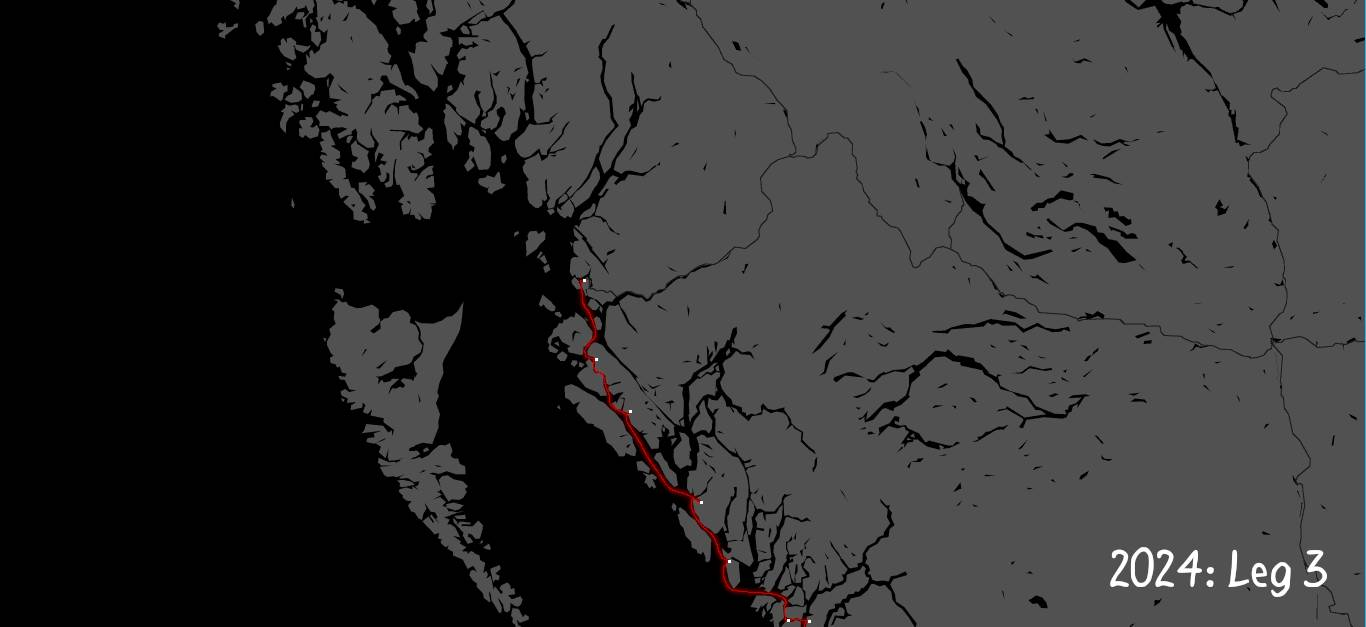
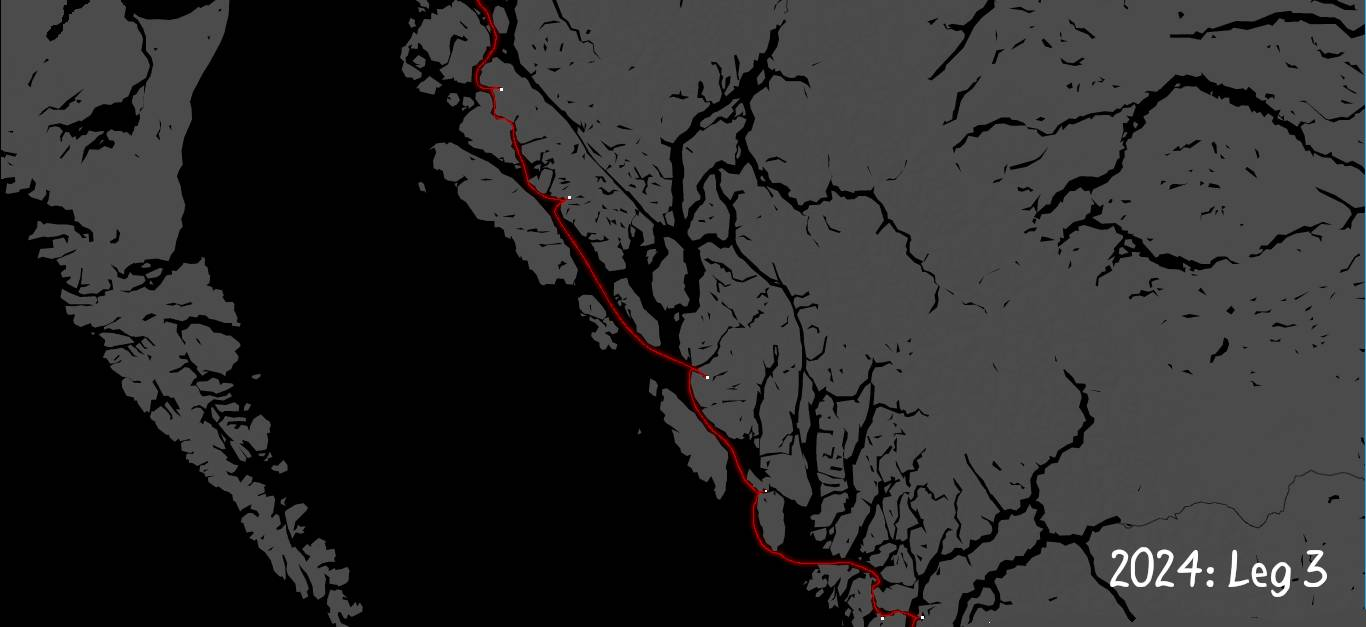
*

diff --git a/site/index.html b/site/index.html
@@ -106,5 +106,5 @@
 
 <h1>index</h1><ul class='col2 capital'><li><a href='2018.html'>2018</a></li><li><a href='2019.html'>2019</a></li><li><a href='2020.html'>2020</a></li><li><a href='2021.html'>2021</a></li><li><a href='2022.html'>2022</a></li><li><a href='2023.html'>2023</a></li><li><a href='2024.html'>2024</a></li><li><a href='6502_assembly.html'>6502 assembly</a></li><li><a href='a_home_for_pino.html'>a home for pino</a></li><li><a href='about_us.html'>about us</a></li><li><a href='abyc_wire_color_codes.html'>abyc wire color codes</a></li><li><a href='ac_electrical_refit.html'>ac electrical refit</a></li><li><a href='adelie.html'>adelie</a></li><li><a href='ais.html'>ais</a></li><li><a href='ais_installation.html'>ais installation</a></li><li><a href='alcohol_stove.html'>alcohol stove</a></li><li><a href='an_island_to_oneself.html'>an island to oneself</a></li><li><a href='anchoring.html'>anchoring</a></li><li><a href='anchoring_setup.html'>anchoring setup</a></li><li><a href='ascii.html'>ascii</a></li><li><a href='ballet_bay.html'>ballet bay</a></li><li><a href='barometer.html'>barometer</a></li><li><a href='batteries.html'>batteries</a></li><li><a href='beaufort_scale.html'>beaufort scale</a></li><li><a href='bed.html'>bed</a></li><li><a href='bikes.html'>bikes</a></li><li><a href='bikes_on_a_boat.html'>bikes on a boat</a></li><li><a href='board_games.html'>board games</a></li><li><a href='boat_projects.html'>boat projects</a></li><li><a href='boom_tent.html'>boom tent</a></li><li><a href='burgee.html'>burgee</a></li><li><a href='burgee_project.html'>burgee project</a></li><li><a href='busy_doing_nothing.html'>busy doing nothing</a></li><li><a href='buying_a_sailboat.html'>buying a sailboat</a></li><li><a href='calling_for_help.html'>calling for help</a></li><li><a href='captain_what_is_this.html'>captain what is this</a></li><li><a href='carbonation.html'>carbonation</a></li><li><a href='cast_iron_cookware.html'>cast iron cookware</a></li><li><a href='cathedral_grove.html'>cathedral grove</a></li><li><a href='chainplates.html'>chainplates</a></li><li><a href='charging_electronics.html'>charging electronics</a></li><li><a href='choosing_upholstery_fabric.html'>choosing upholstery fabric</a></li><li><a href='choosing_upholstery_foam.html'>choosing upholstery foam</a></li><li><a href='cleaning_products.html'>cleaning products</a></li><li><a href='coffee.html'>coffee</a></li><li><a href='communication.html'>communication</a></li><li><a href='computing_and_sustainability.html'>computing and sustainability</a></li><li><a href='contribute.html'>contribute</a></li><li><a href='cook_islands.html'>cook islands</a></li><li><a href='cooking.html'>cooking</a></li><li><a href='cost_of_simplicity.html'>cost of simplicity</a></li><li><a href='costs.html'>costs</a></li><li><a href='curtains.html'>curtains</a></li><li><a href='data_storage.html'>data storage</a></li><li><a href='dc_electrical_refit.html'>dc electrical refit</a></li><li><a href='decorations.html'>decorations</a></li><li><a href='diet.html'>diet</a></li><li><a href='distractions.html'>distractions</a></li><li><a href='ditch_bag.html'>ditch bag</a></li><li><a href='diy_carbonation_system.html'>diy carbonation system</a></li><li><a href='documenting.html'>documenting</a></li><li><a href='doldrumming.html'>doldrumming</a></li><li><a href='donsol.html'>donsol</a></li><li><a href='dotgrid.html'>dotgrid</a></li><li><a href='drownspire.html'>drownspire</a></li><li><a href='dry_toilet.html'>dry toilet</a></li><li><a href='dry_toilet_installation.html'>dry toilet installation</a></li><li><a href='effect_of_combining_dissimilar_metals.html'>effect of combining dissimilar metals</a></li><li><a href='electrical_refit.html'>electrical refit</a></li><li><a href='energy.html'>energy</a></li><li><a href='engine_care.html'>engine care</a></li><li><a href='engine_rebuild.html'>engine rebuild</a></li><li><a href='fiji.html'>fiji</a></li><li><a href='first_aid_kit.html'>first aid kit</a></li><li><a href='food_storage.html'>food storage</a></li><li><a href='forecast.html'>forecast</a></li><li><a href='formalities.html'>formalities</a></li><li><a href='frances_bay.html'>frances bay</a></li><li><a href='french_polynesia.html'>french polynesia</a></li><li><a href='fuel_sensor.html'>fuel sensor</a></li><li><a href='fury_cove.html'>fury cove</a></li><li><a href='gabriola.html'>gabriola</a></li><li><a href='galiano.html'>galiano</a></li><li><a href='galley.html'>galley</a></li><li><a href='galley_plumbing.html'>galley plumbing</a></li><li><a href='galley_refit.html'>galley refit</a></li><li><a href='galley_tools.html'>galley tools</a></li><li><a href='gimballed_stove.html'>gimballed stove</a></li><li><a href='goji_no_chaimu.html'>goji no chaimu</a></li><li><a href='grace_harbour.html'>grace harbour</a></li><li><a href='gravity_water_filter.html'>gravity water filter</a></li><li><a href='grib_files.html'>grib files</a></li><li><a href='grimgrains.html'>grimgrains</a></li><li><a href='grinder.html'>grinder</a></li><li><a href='ground_tackle.html'>ground tackle</a></li><li><a href='growing_food.html'>growing food</a></li><li><a href='halloween_pumpkins.html'>halloween pumpkins</a></li><li><a href='hardware.html'>hardware</a></li><li><a href='hathayim_marine_park.html'>hathayim marine park</a></li><li><a href='hauling_out.html'>hauling out</a></li><li><a href='headsail.html'>headsail</a></li><li><a href='heating.html'>heating</a></li><li><a href='hello_fujisan.html'>hello fujisan</a></li><li><a href='heriot_bay.html'>heriot bay</a></li><li><a href='hexadecimal_table.html'>hexadecimal table</a></li><li><a href='hiversaires.html'>hiversaires</a></li><li><a href='home.html'>home</a></li><li><a href='how_lpg_solenoids_work.html'>how lpg solenoids work</a></li><li><a href='how_solenoids_work.html'>how solenoids work</a></li><li><a href='iggy.html'>iggy</a></li><li><a href='index.html'>index</a></li><li><a href='induction_cooking.html'>induction cooking</a></li><li><a href='installing_insulation.html'>installing insulation</a></li><li><a href='insulation.html'>insulation</a></li><li><a href='insulation_cooking.html'>insulation cooking</a></li><li><a href='insurance.html'>insurance</a></li><li><a href='internet.html'>internet</a></li><li><a href='internet_in_paradise.html'>internet in paradise</a></li><li><a href='japan.html'>japan</a></li><li><a href='jib_cars.html'>jib cars</a></li><li><a href='knots.html'>knots</a></li><li><a href='lactofermentation.html'>lactofermentation</a></li><li><a href='ladysmith.html'>ladysmith</a></li><li><a href='laundry.html'>laundry</a></li><li><a href='lazy_jacks.html'>lazy jacks</a></li><li><a href='left.html'>left</a></li><li><a href='left_electron.html'>left electron</a></li><li><a href='leleuvia.html'>leleuvia</a></li><li><a href='library.html'>library</a></li><li><a href='license.html'>license</a></li><li><a href='lifelines.html'>lifelines</a></li><li><a href='little_ninj.html'>little ninj</a></li><li><a href='liveaboard.html'>liveaboard</a></li><li><a href='living_aboard_in_winter.html'>living aboard in winter</a></li><li><a href='log.html'>log</a></li><li><a href='lost_logbook.html'>lost logbook</a></li><li><a href='lpg.html'>lpg</a></li><li><a href='lpg_fume_detection_system.html'>lpg fume detection system</a></li><li><a href='lpg_refit.html'>lpg refit</a></li><li><a href='mainsail.html'>mainsail</a></li><li><a href='maintenance_checklist.html'>maintenance checklist</a></li><li><a href='maintenance_cost.html'>maintenance cost</a></li><li><a href='making_saloon_cushions.html'>making saloon cushions</a></li><li><a href='making_seamed_box_cushions.html'>making seamed box cushions</a></li><li><a href='makogai.html'>makogai</a></li><li><a href='maple_bay.html'>maple bay</a></li><li><a href='marine_wire_termination.html'>marine wire termination</a></li><li><a href='markl.html'>markl</a></li><li><a href='marshall_islands.html'>marshall islands</a></li><li><a href='medical.html'>medical</a></li><li><a href='melanie_cove.html'>melanie cove</a></li><li><a href='meta.nav.html'>meta.nav</a></li><li><a href='metal_halyard_swaging.html'>metal halyard swaging</a></li><li><a href='mexico.html'>mexico</a></li><li><a href='mini_dodger.html'>mini dodger</a></li><li><a href='mission.html'>mission</a></li><li><a href='moisture_prevention_underliner.html'>moisture prevention underliner</a></li><li><a href='money.html'>money</a></li><li><a href='moorage.html'>moorage</a></li><li><a href='nasu.html'>nasu</a></li><li><a href='nasu_guide.html'>nasu guide</a></li><li><a href='navigation.html'>navigation</a></li><li><a href='new_zealand.html'>new zealand</a></li><li><a href='night_sailing.html'>night sailing</a></li><li><a href='niju.html'>niju</a></li><li><a href='ninj_blog.html'>ninj blog</a></li><li><a href='niue.html'>niue</a></li><li><a href='no_windlass.html'>no windlass</a></li><li><a href='noodle.html'>noodle</a></li><li><a href='north_pacific_logbook.html'>north pacific logbook</a></li><li><a href='north_pacific_ocean.html'>north pacific ocean</a></li><li><a href='nutrition.html'>nutrition</a></li><li><a href='oars.html'>oars</a></li><li><a href='octopus_islands.html'>octopus islands</a></li><li><a href='off_the_grid.html'>off the grid</a></li><li><a href='offshore.html'>offshore</a></li><li><a href='offshore_checklist.html'>offshore checklist</a></li><li><a href='ogasawara_cruising_guide.html'>ogasawara cruising guide</a></li><li><a href='open_pantry.html'>open pantry</a></li><li><a href='oquonie.html'>oquonie</a></li><li><a href='orca.html'>orca</a></li><li><a href='paradise.html'>paradise</a></li><li><a href='philosophy.html'>philosophy</a></li><li><a href='pino.html'>pino</a></li><li><a href='plantbased_diet_in_japan.html'>plantbased diet in japan</a></li><li><a href='port_mcneil.html'>port mcneil</a></li><li><a href='port_mcneill.html'>port mcneill</a></li><li><a href='port_neville.html'>port neville</a></li><li><a href='power.html'>power</a></li><li><a href='press.html'>press</a></li><li><a href='pressure_cooker.html'>pressure cooker</a></li><li><a href='princess_louisa_inlet.html'>princess louisa inlet</a></li><li><a href='privacy.html'>privacy</a></li><li><a href='productivity.html'>productivity</a></li><li><a href='projects_and_pain.html'>projects and pain</a></li><li><a href='propeller_maintenance.html'>propeller maintenance</a></li><li><a href='provisioning.html'>provisioning</a></li><li><a href='provisioning_in_japan.html'>provisioning in japan</a></li><li><a href='pull_request.html'>pull request</a></li><li><a href='rabbits.html'>rabbits</a></li><li><a href='radio.html'>radio</a></li><li><a href='rain.html'>rain</a></li><li><a href='rainy_with_a_chance_of_mosquitoes.html'>rainy with a chance of mosquitoes</a></li><li><a href='receiving_mail.html'>receiving mail</a></li><li><a href='reefing.html'>reefing</a></li><li><a href='refrigeration.html'>refrigeration</a></li><li><a href='refuge_cove.html'>refuge cove</a></li><li><a href='regulator.html'>regulator</a></li><li><a href='repair.html'>repair</a></li><li><a href='resources.html'>resources</a></li><li><a href='ronin.html'>ronin</a></li><li><a href='roscoe_bay.html'>roscoe bay</a></li><li><a href='safety_gear.html'>safety gear</a></li><li><a href='sailing.html'>sailing</a></li><li><a href='sailing_in_japan.html'>sailing in japan</a></li><li><a href='saloon_hatch.html'>saloon hatch</a></li><li><a href='satellite_phone.html'>satellite phone</a></li><li><a href='saturna.html'>saturna</a></li><li><a href='saving_fuel.html'>saving fuel</a></li><li><a href='schedule.html'>schedule</a></li><li><a href='seasickness.html'>seasickness</a></li><li><a href='setup.html'>setup</a></li><li><a href='sewing.html'>sewing</a></li><li><a href='shimoda.html'>shimoda</a></li><li><a href='shoal_bay.html'>shoal bay</a></li><li><a href='shore_power_cord_repair.html'>shore power cord repair</a></li><li><a href='shower.html'>shower</a></li><li><a href='sky_reading.html'>sky reading</a></li><li><a href='small_space.html'>small space</a></li><li><a href='smuggler_cove.html'>smuggler cove</a></li><li><a href='snubber.html'>snubber</a></li><li><a href='software.html'>software</a></li><li><a href='solar.html'>solar</a></li><li><a href='solar_box_cooking.html'>solar box cooking</a></li><li><a href='solar_cooking.html'>solar cooking</a></li><li><a href='solar_cooking_experiment.html'>solar cooking experiment</a></li><li><a href='solar_evacuated_tube_cooking.html'>solar evacuated tube cooking</a></li><li><a href='solar_tips.html'>solar tips</a></li><li><a href='sprouting.html'>sprouting</a></li><li><a href='squalls.html'>squalls</a></li><li><a href='standing_rigging_replacement.html'>standing rigging replacement</a></li><li><a href='store.html'>store</a></li><li><a href='story.html'>story</a></li><li><a href='sturt_bay.html'>sturt bay</a></li><li><a href='sun_driers.html'>sun driers</a></li><li><a href='support.html'>support</a></li><li><a href='teapot.html'>teapot</a></li><li><a href='telegraph_cove.html'>telegraph cove</a></li><li><a href='tenedos_bay.html'>tenedos bay</a></li><li><a href='the_promise_of_pancakes.html'>the promise of pancakes</a></li><li><a href='the_rock_of_polynesia.html'>the rock of polynesia</a></li><li><a href='thousand_rooms.html'>thousand rooms</a></li><li><a href='thruhulls.html'>thruhulls</a></li><li><a href='tonga.html'>tonga</a></li><li><a href='toolbox.html'>toolbox</a></li><li><a href='tools_ecosystem.html'>tools ecosystem</a></li><li><a href='turnip.html'>turnip</a></li><li><a href='twilight.html'>twilight</a></li><li><a href='typhoons_and_mold.html'>typhoons and mold</a></li><li><a href='upholstery.html'>upholstery</a></li><li><a href='us_west_coast.html'>us west coast</a></li><li><a href='uxn.html'>uxn</a></li><li><a href='uxn_design.html'>uxn design</a></li><li><a href='uxn_guide.html'>uxn guide</a></li><li><a href='verreciel.html'>verreciel</a></li><li><a href='victoria.html'>victoria</a></li><li><a href='videos.html'>videos</a></li><li><a href='washing_dishes.html'>washing dishes</a></li><li><a href='washing_produce.html'>washing produce</a></li><li><a href='waste.html'>waste</a></li><li><a href='water.html'>water</a></li><li><a href='water_filtration.html'>water filtration</a></li><li><a href='water_storage.html'>water storage</a></li><li><a href='weather.html'>weather</a></li><li><a href='weathering_software_winter.html'>weathering software winter</a></li><li><a href='website.html'>website</a></li><li><a href='western_canada.html'>western canada</a></li><li><a href='wheel_to_tiller_conversion.html'>wheel to tiller conversion</a></li><li><a href='where.html'>where</a></li><li><a href='why_a_boat.html'>why a boat</a></li><li><a href='wiktopher.html'>wiktopher</a></li><li><a href='windlass_removal.html'>windlass removal</a></li><li><a href='window_replacement.html'>window replacement</a></li><li><a href='wood_upkeep.html'>wood upkeep</a></li><li><a href='woodstove.html'>woodstove</a></li><li><a href='woodstove_installation.html'>woodstove installation</a></li><li><a href='working_offgrid_efficiently.html'>working offgrid efficiently</a></li><li><a href='yuculta_and_dent_rapids.html'>yuculta and dent rapids</a></li></ul>
 
-</main><footer><hr /><span style='float:right'>Edited on Thu May 30 09:11:39 2024
+</main><footer><hr /><span style='float:right'>Edited on Thu May 30 09:35:03 2024
  <a href='https://github.com/hundredrabbits/100r.co/edit/main/src/inc/index.htm'>[edit]</a><br/></span><b>Hundredrabbits</b> © 2024 — <a href='https://github.com/hundredrabbits/100r.co/blob/main/LICENSE.by-nc-sa-4.0.md' target='_blank'>BY-NC-SA 4.0</a><a href='https://merveilles.town/@neauoire' rel='me' class='hidden'></a><a href='https://merveilles.town/@rek' rel='me' class='hidden'></a></footer></body></html>

diff --git a/site/western_canada.html b/site/western_canada.html
@@ -189,6 +189,7 @@
 <a href="../media/content/maps/2024_01.jpg" target="_blank"><img src="../media/content/maps/2024_01.jpg" alt="2024 sailing route in bc canada" loading="lazy"></a>
 <a href="../media/content/maps/2024_02.jpg" target="_blank"><img src="../media/content/maps/2024_02.jpg" alt="2024 sailing route in bc canada" loading="lazy"></a>
 <a href="../media/content/maps/2024_03.jpg" target="_blank"><img src="../media/content/maps/2024_03.jpg" alt="2024 sailing route in bc canada" loading="lazy"></a>
+<a href="../media/content/maps/2024_04.jpg" target="_blank"><img src="../media/content/maps/2024_04.jpg" alt="2024 sailing route in bc canada" loading="lazy"></a>
 
 <p><b>Summer 2024 route(so far)</b>:</b> <a href='victoria.html' class='local'>Victoria</a> > North Saanich > Montague (<a href='galiano.html' class='local'>Galiano</a>) > Secretary Islands > <a href='smuggler_cove.html' class='local'>Smuggler Cove</a> > Pender Harbour > <a href='ballet_bay.html' class='local'>Ballet Bay</a> > <a href='sturt_bay.html' class='local'>Sturt Bay</a> > Galley Bay (Desolation Sound) > <a href='refuge_cove.html' class='local'>Refuge Cove</a> > <a href='frances_bay.html' class='local'>Frances Bay</a> > <a href='shoal_bay.html' class='local'>Shoal Bay</a> > Forward Harbour > <a href='port_neville.html' class='local'>Port Neville</a> > <a href='telegraph_cove.html' class='local'>Telegraph Cove</a> > <a href='port_mcneill.html' class='local'>Port McNeill</a> > Millbrook Cove (Smith Sound)> <a href='fury_cove.html' class='local'>Fury Cove</a> (Penrose Island) > Codville Lagoon (King Island) > Lizzie Bay (Hunter Island) > Higgins Passage (Price Island) > Bone Anchorage, Racey Inlet (Princess Royal Island) > Patterson Inlet (Pitt Island) > Captain Cove (Pitt Island) > Prince Rupert.</p>
 
@@ -258,5 +259,5 @@
 <img src='../media/content/travel/saturna_01.jpg' title='Rek rowing around lyall harbor' alt='rowing teapot around Lyall harbor on saturna island' loading='lazy'>
 <img src='../media/content/travel/pl_30.jpg' alt='pino sailing out of Princess Louisa Inlet' loading='lazy'>
 
-</main><footer><hr /><span style='float:right'>Edited on Thu May 30 09:11:36 2024
+</main><footer><hr /><span style='float:right'>Edited on Thu May 30 09:35:01 2024
  <a href='https://github.com/hundredrabbits/100r.co/edit/main/src/inc/western_canada.htm'>[edit]</a><br/></span><b>Hundredrabbits</b> © 2024 — <a href='https://github.com/hundredrabbits/100r.co/blob/main/LICENSE.by-nc-sa-4.0.md' target='_blank'>BY-NC-SA 4.0</a><a href='https://merveilles.town/@neauoire' rel='me' class='hidden'></a><a href='https://merveilles.town/@rek' rel='me' class='hidden'></a></footer></body></html>

diff --git a/src/inc/western_canada.htm b/src/inc/western_canada.htm
@@ -83,6 +83,7 @@
 <a href="../media/content/maps/2024_01.jpg" target="_blank"><img src="../media/content/maps/2024_01.jpg" alt="2024 sailing route in bc canada" loading="lazy"></a>
 <a href="../media/content/maps/2024_02.jpg" target="_blank"><img src="../media/content/maps/2024_02.jpg" alt="2024 sailing route in bc canada" loading="lazy"></a>
 <a href="../media/content/maps/2024_03.jpg" target="_blank"><img src="../media/content/maps/2024_03.jpg" alt="2024 sailing route in bc canada" loading="lazy"></a>
+<a href="../media/content/maps/2024_04.jpg" target="_blank"><img src="../media/content/maps/2024_04.jpg" alt="2024 sailing route in bc canada" loading="lazy"></a>
 
 <p><b>Summer 2024 route(so far)</b>:</b> {Victoria} > North Saanich > Montague ({Galiano}) > Secretary Islands > {Smuggler Cove} > Pender Harbour > {Ballet Bay} > {Sturt Bay} > Galley Bay (Desolation Sound) > {Refuge Cove} > {Frances Bay} > {Shoal Bay} > Forward Harbour > {Port Neville} > {Telegraph Cove} > {Port McNeill} > Millbrook Cove (Smith Sound)> {Fury Cove} (Penrose Island) > Codville Lagoon (King Island) > Lizzie Bay (Hunter Island) > Higgins Passage (Price Island) > Bone Anchorage, Racey Inlet (Princess Royal Island) > Patterson Inlet (Pitt Island) > Captain Cove (Pitt Island) > Prince Rupert.</p>
 
